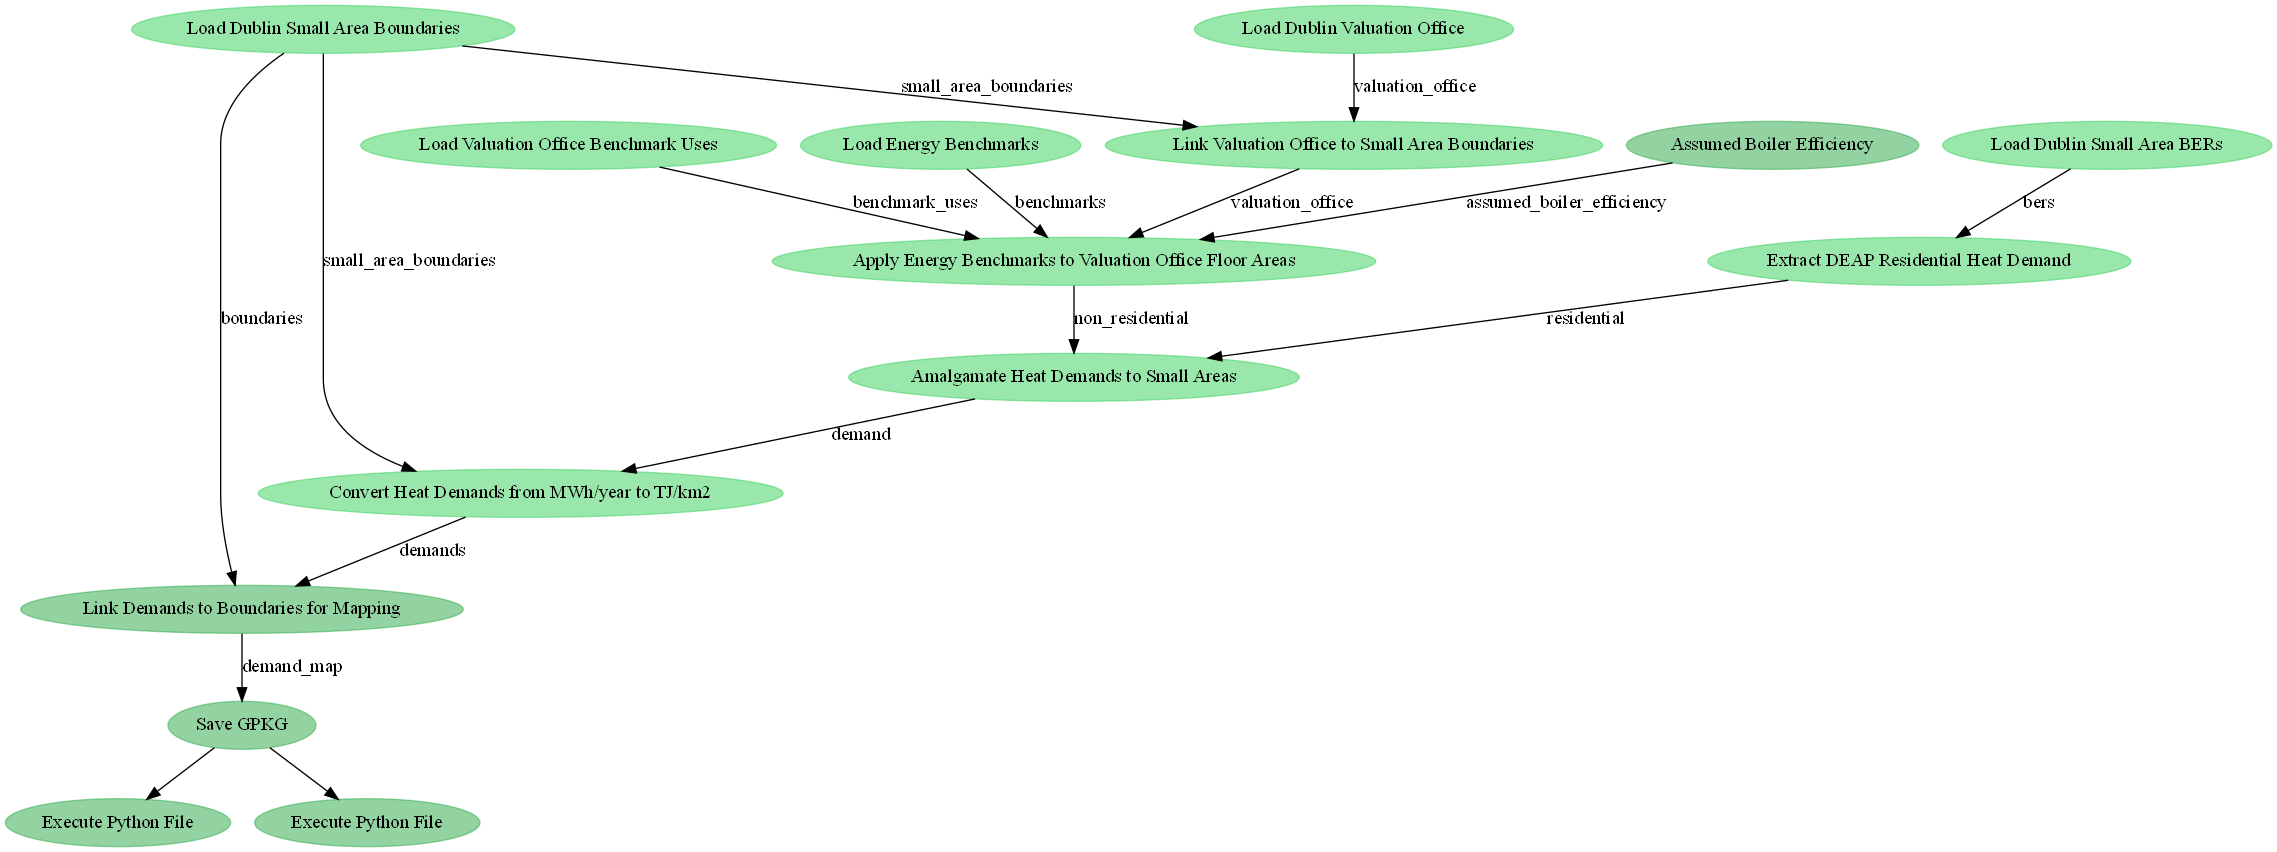
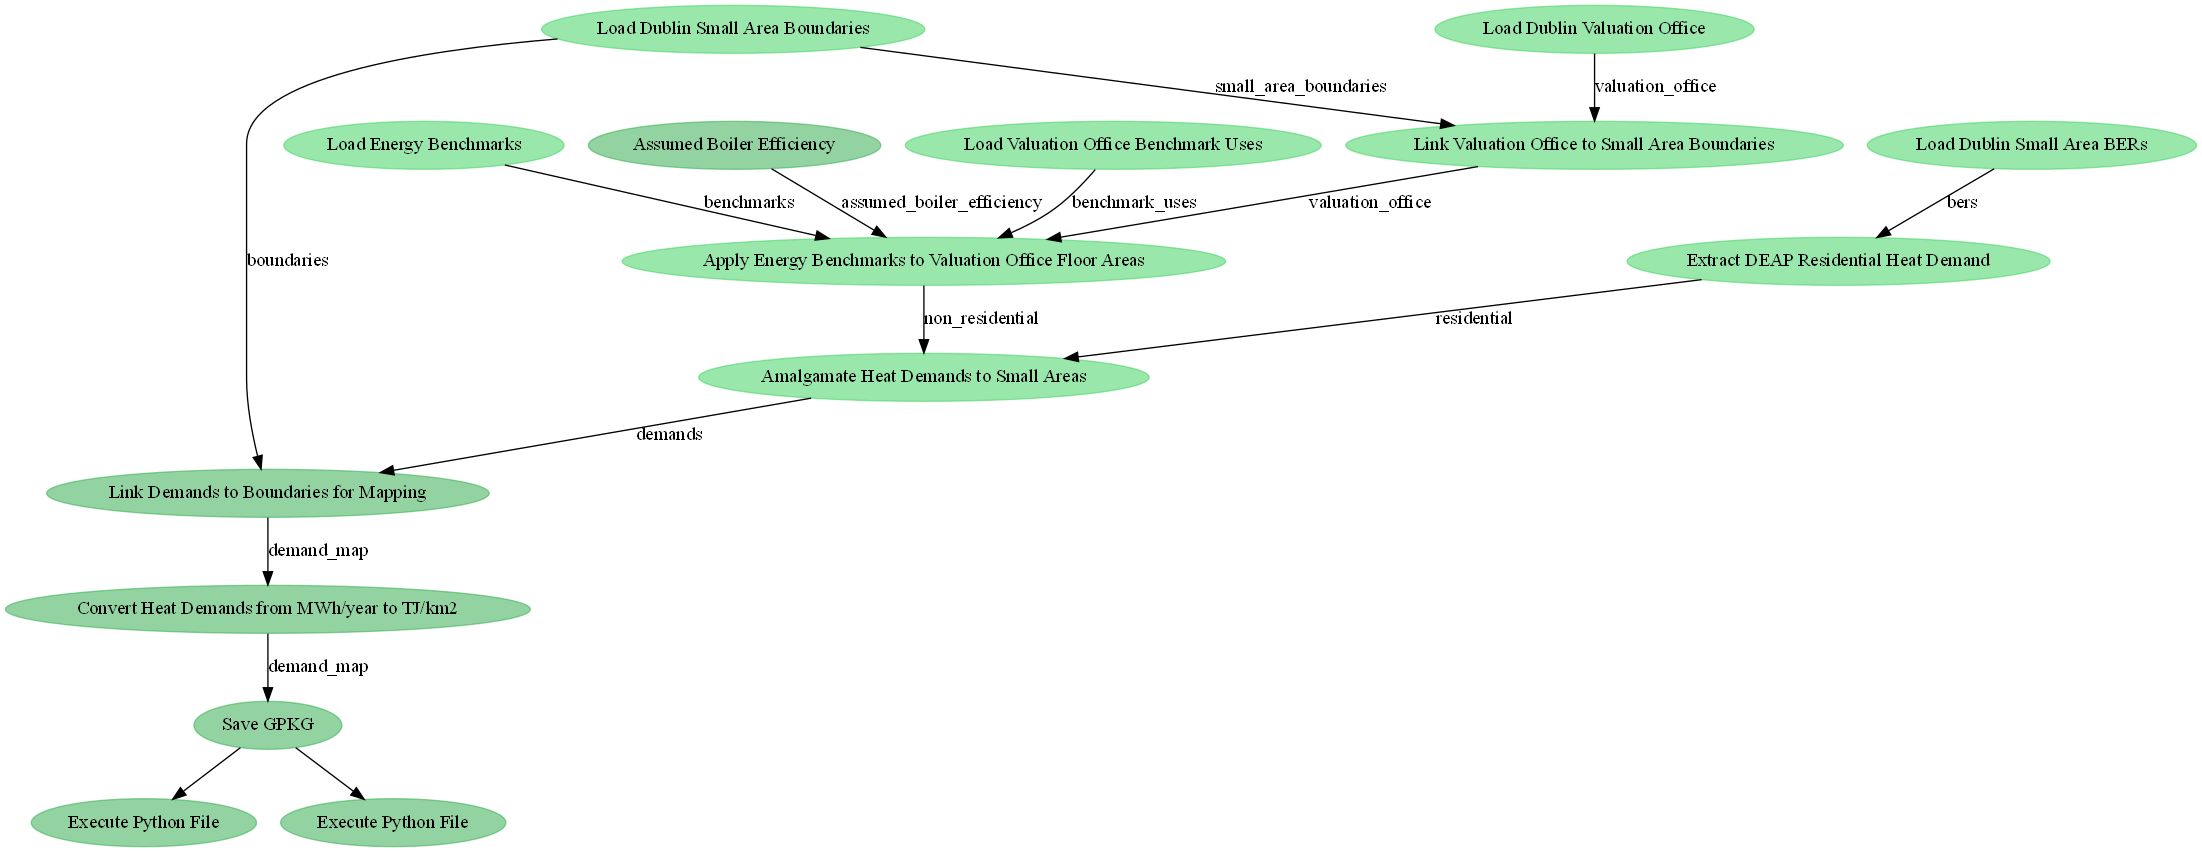
Normalise HDD Benchmarks for Weather

diff --git a/heat-demand-density/functions.py b/heat-demand-density/functions.py
@@ -81,6 +81,37 @@ def link_small_areas_to_local_authorities(
     )
 
 
+def extract_normalised_benchmarks_for_weather(
+    benchmarks: pd.DataFrame,
+) -> pd.DataFrame:
+    # 5y average for Dublin Airport from 2015 to 2020
+    dublin_degree_days = 2175
+    tm46_degree_days = 2021
+    degree_day_factor = tm46_degree_days / dublin_degree_days
+    fossil_fuel_heat = (
+        benchmarks["Typical fossil fuel [kWh/m²y]"]
+        * benchmarks["Percentage fossil fuel pro-rated to degree days"]
+        * degree_day_factor
+        + benchmarks["Typical fossil fuel [kWh/m²y]"]
+        * (1 - benchmarks["Percentage fossil fuel pro-rated to degree days"])
+    ) * benchmarks["% Suitable for DH or HP"]
+    industrial_heat = (
+        benchmarks["Industrial space heat [kWh/m²y]"] * degree_day_factor
+        + benchmarks["Industrial process energy [kWh/m²y]"]
+        * benchmarks["% Suitable for DH or HP"]
+        * degree_day_factor
+    )
+    return pd.DataFrame(
+        {
+            "benchmark": benchmarks["Benchmark"],
+            "typical_area_m2": benchmarks["Typical Area [m²]"],
+            "area_upper_bound_m2": benchmarks["Area Upper Bound [m²]"],
+            "fossil_fuel_heat_kwh_per_m2y": fossil_fuel_heat,
+            "industrial_heat_kwh_per_m2y": industrial_heat,
+        }
+    )
+
+
 def apply_benchmarks_to_valuation_office_floor_areas(
     valuation_office: pd.DataFrame,
     benchmark_uses: pd.DataFrame,
@@ -101,28 +132,29 @@ def apply_benchmarks_to_valuation_office_floor_areas(
     # replace unexpectedly large floor areas with a typical area
     with_benchmarks["bounded_area_m2"] = with_benchmarks["Total_SQM"]
     where_area_greater_than_expected = (
-        with_benchmarks["Total_SQM"] > with_benchmarks["Area Upper Bound [m²]"]
+        with_benchmarks["Total_SQM"] > with_benchmarks["area_upper_bound_m2"]
     )
     with_benchmarks.loc[
         where_area_greater_than_expected, "bounded_area_m2"
-    ] = with_benchmarks.loc[where_area_greater_than_expected, "Typical Area [m²]"]
+    ] = with_benchmarks.loc[where_area_greater_than_expected, "typical_area_m2"]
 
     # calculate heat demand
-    non_industrial_heat_demand_kwh_per_y = (
-        with_benchmarks["Typical fossil fuel [kWh/m²y]"]
-        * with_benchmarks["bounded_area_m2"]
-        * with_benchmarks["% Suitable for DH or HP"]
-    ) / assumed_boiler_efficiency
-    industrial_heat_demand_kwh_per_y = (
-        with_benchmarks["Industrial space heat [kWh/m²y]"]
-        * with_benchmarks["bounded_area_m2"]
-        * with_benchmarks["% Suitable for DH or HP"]
-    )
     kwh_to_mwh = 1e-3
+    fossil_fuel_heat_demand_mwh_per_y = (
+        with_benchmarks["bounded_area_m2"].fillna(0)
+        * with_benchmarks["fossil_fuel_heat_kwh_per_m2y"].fillna(0)
+        * kwh_to_mwh
+        / assumed_boiler_efficiency
+    ).fillna(0)
+    industrial_heat_demand_mwh_per_y = (
+        with_benchmarks["bounded_area_m2"].fillna(0)
+        * with_benchmarks["industrial_heat_kwh_per_m2y"].fillna(0)
+        * kwh_to_mwh
+    )
+
     with_benchmarks["heat_demand_mwh_per_y"] = (
-        non_industrial_heat_demand_kwh_per_y.fillna(0)
-        + industrial_heat_demand_kwh_per_y.fillna(0)
-    ) * kwh_to_mwh
+        fossil_fuel_heat_demand_mwh_per_y + industrial_heat_demand_mwh_per_y
+    )
 
     # Drop buildings with zero floor area or with a zero demand benchmark
     where_floor_area_is_zero = with_benchmarks["Total_SQM"] > 0

diff --git a/heat-demand-density/tasks.py b/heat-demand-density/tasks.py
@@ -137,7 +137,7 @@ convert_from_mwh_per_y_to_tj_per_km2 = prefect.task(
     functions.convert_from_mwh_per_y_to_tj_per_km2,
     target="dublin_small_area_demand_tj_per_km2.parquet",
     checkpoint=True,
-    result=get_parquet_result(DATA_DIR / "processed"),
+    result=get_geoparquet_result(DATA_DIR / "processed"),
     name="Convert Heat Demands from MWh/year to TJ/km2",
 )
 
